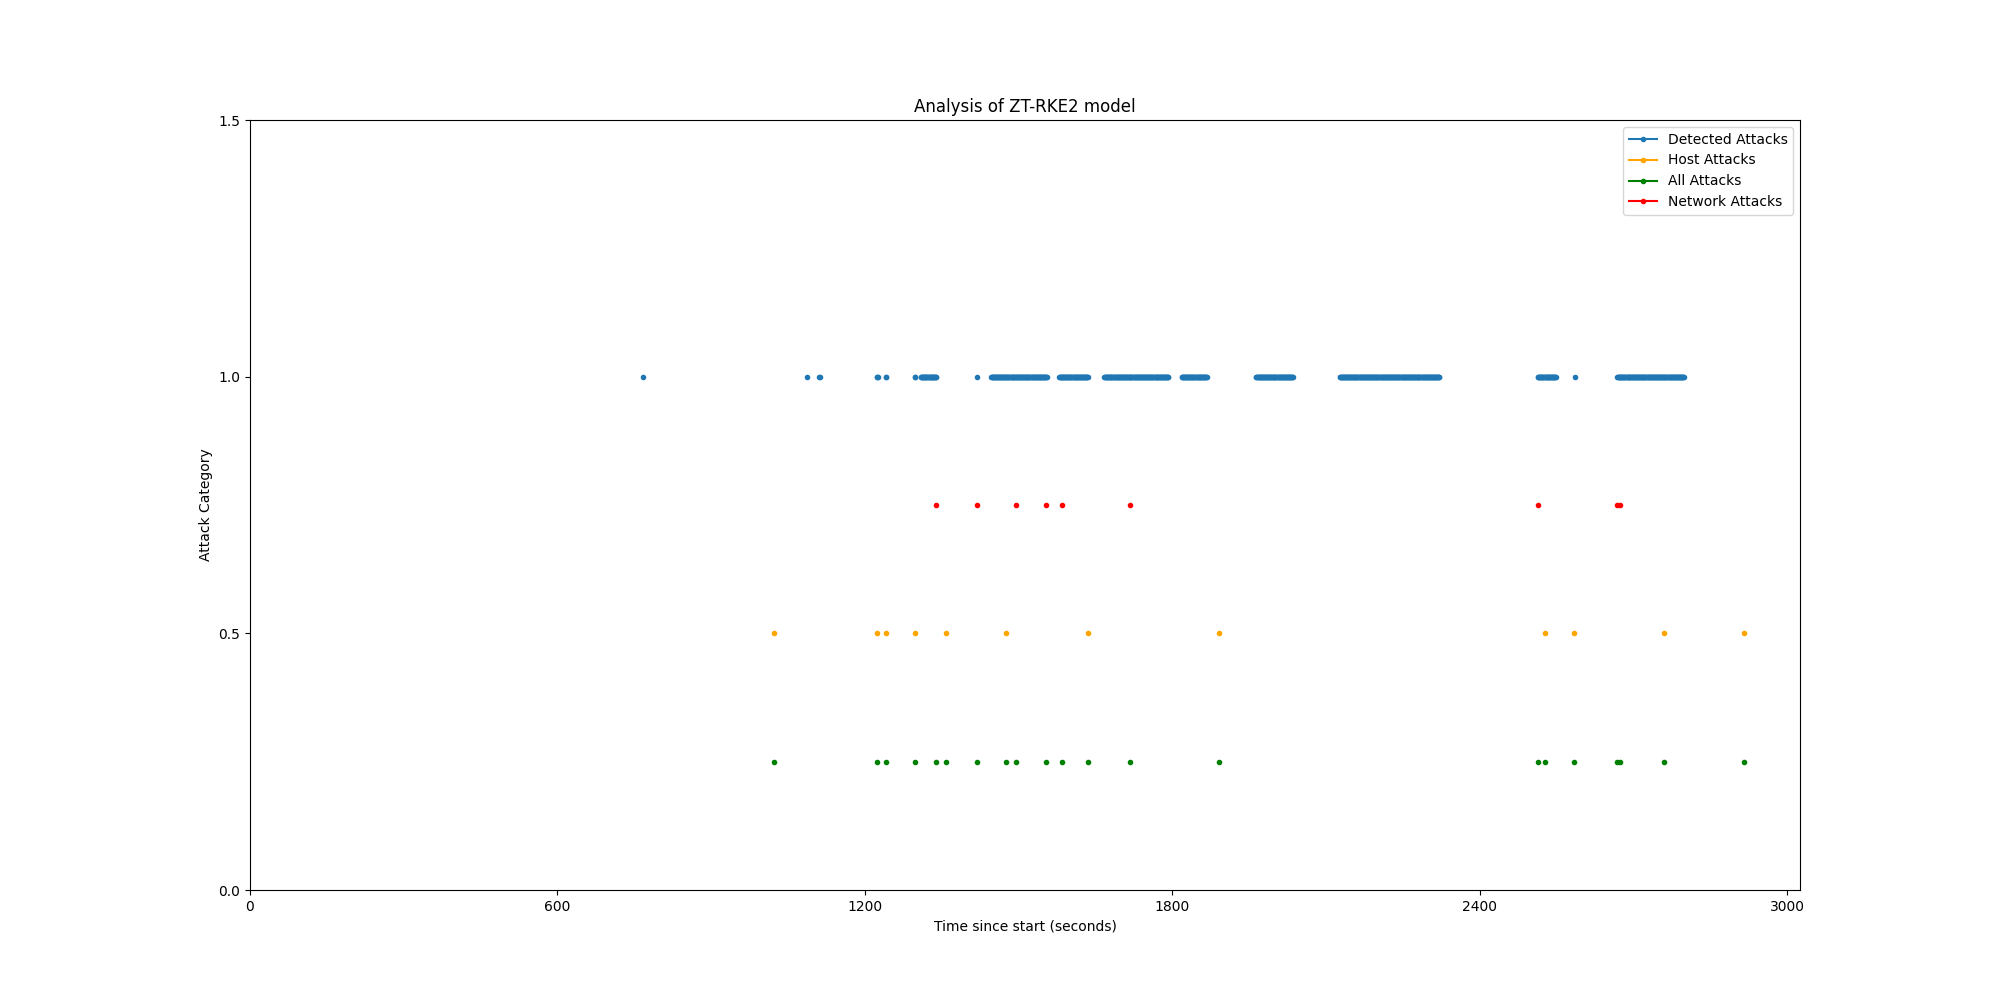
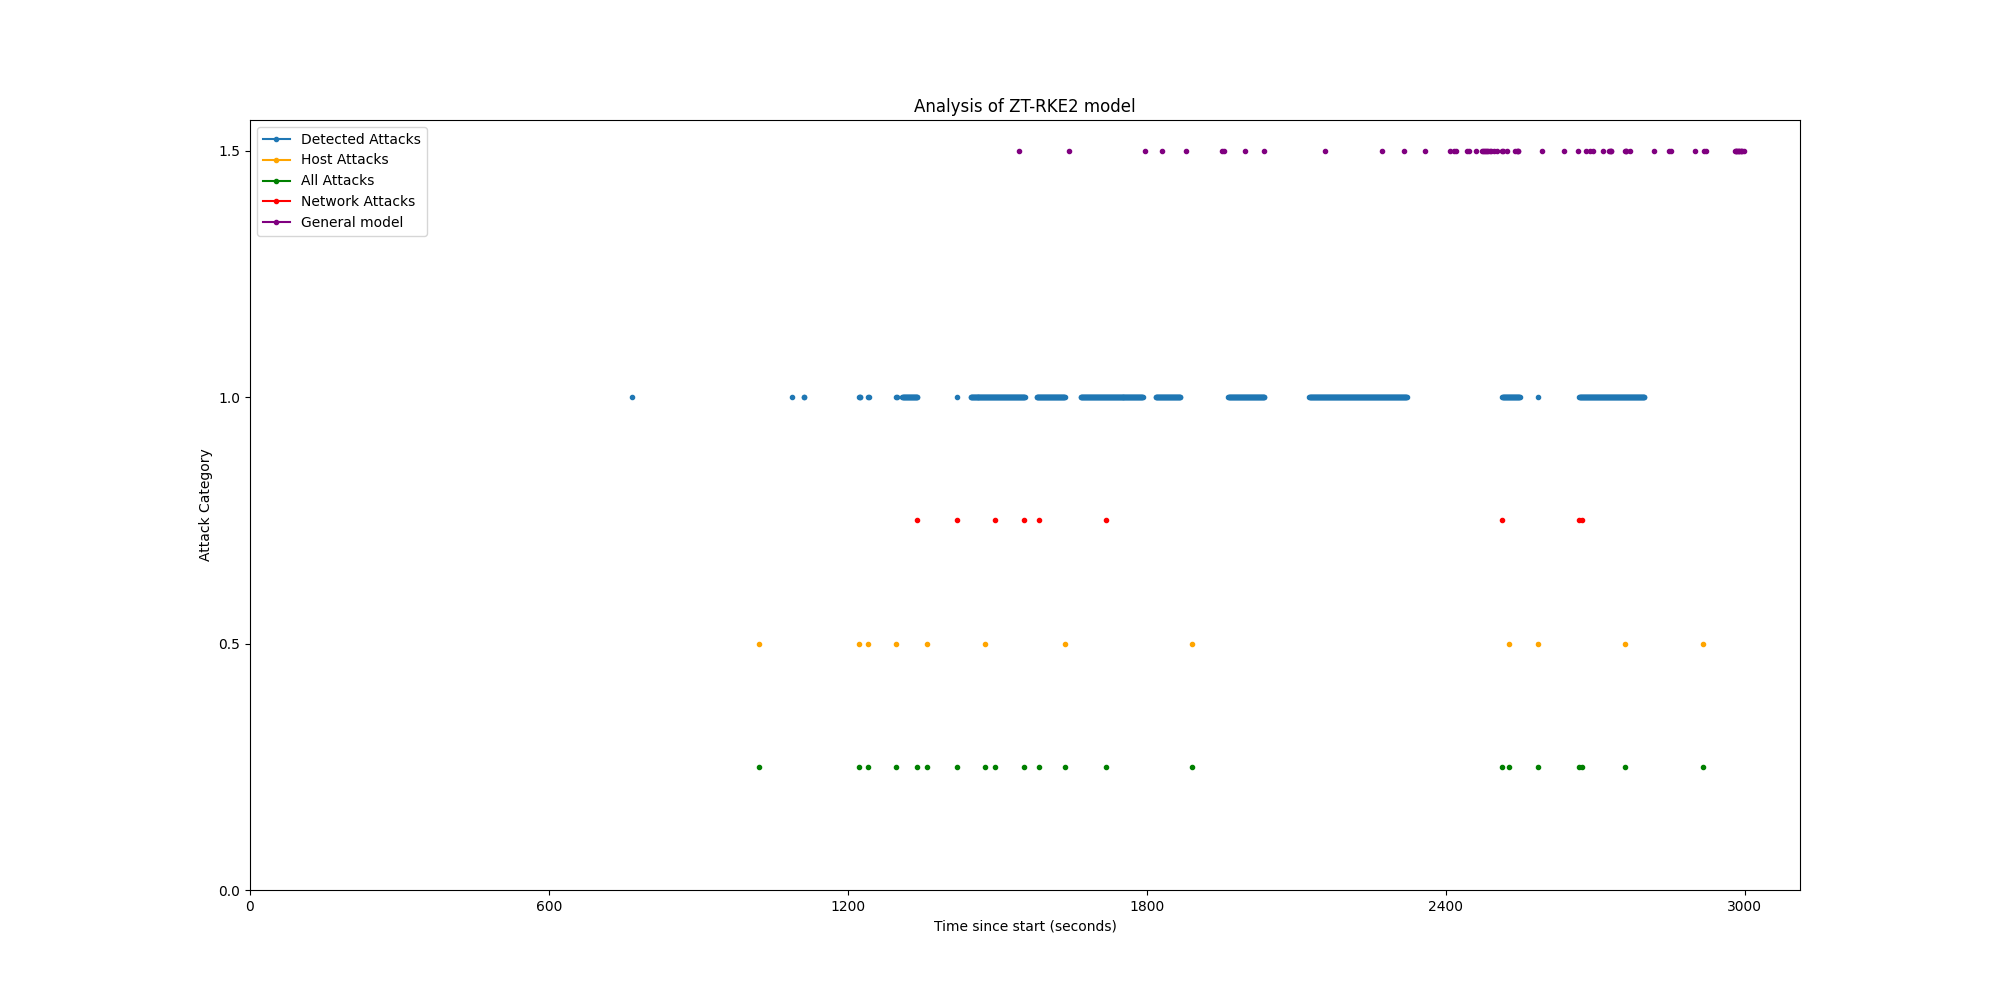
Analysis

diff --git a/performance/analyse_log.py b/performance/analyse_log.py
@@ -2,14 +2,20 @@ from argparse import ArgumentParser
 import matplotlib.pyplot as plt
 import datetime
 import numpy as np
+import os
 import re
+import time
 def timestr_to_obj(timestr):
+    if timestr is None:
+        return None
     return datetime.datetime.strptime(timestr.strip(),"%d/%m/%Y %H:%M:%S:%f").timestamp()
 class Attack:
     def __init__(self,name,ts,host):
         self.name = name
         self.ts = timestr_to_obj(ts)
         self.host = host
+        self.host_map = { "VM1":"10.1.2.5","VM2":"10.1.2.10","LOCAL":"127.0.0.1"}
+
     def get_class(self): 
         if (self.name in ["Brute Force","DoS"]): 
             return "Network"
@@ -21,6 +27,8 @@ class Attack:
         for k in vars(self): 
             ret += k+"->"+str(vars(self)[k])+" | "
         return ret
+    def get_ip(self): 
+        return self.host_map[self.host]
     
 class Attacks: 
     def __init__(self): 
@@ -35,9 +43,6 @@ class Attacks:
         lowest = None
         for atk in self.all:
             diff = abs(ts - atk.ts)
-            # print("DIFF for atk",ts,atk.ts,diff,atk)
-            # if diff < 0:
-            #     continue
             if lowest is None: 
                 # print("NEW LOWEST",diff,atk)
                 lowest = diff
@@ -45,9 +50,24 @@ class Attacks:
             if diff < lowest: 
                 lowest = diff 
                 stored = atk
+        if stored is None: 
+            return None, Attack(None,None,None)
         return lowest, stored
-
-        
+    def get_host_atks(self,req):
+        stored = None
+        lowest = None
+        for atk in self.all:
+            diff = abs(req.ts - atk.ts)
+            if lowest is None: 
+                # print("NEW LOWEST",diff,atk)
+                lowest = diff
+                stored = atk
+            if diff < lowest and atk.get_ip() in req.hosts: 
+                lowest = diff 
+                stored = atk
+        if stored is None: 
+            return None, Attack(None,None,None)
+        return lowest, stored
 
 class Request: 
     def __init__(self,r_t,o_t,s_t,benign,alert_ts,timestr,sstr,pack,term=False): 
@@ -80,8 +100,10 @@ class Analyser:
         self.req_q = list()
         self.attacks = Attacks()
         self.last_details = list()
+
     def set_start(self,timestr):
         self.start_time = timestr_to_obj(timestr)
+
     def analyse_line(self,line,f): 
         if re.match(r"[a-zA-Z]+:",line): 
             return
@@ -145,12 +167,21 @@ class Analyser:
         elif re.match(r"\d+ packets processed.",line):
             # print("GENERAL PACKET COUNTS", line)
             pass
-        # elif line.startswith("Likelihood"): 
-        #     print("LIKELIHOOD",line)
-        #     weights = f.readline()
-        #     print("WEIGHTS",weights)
-        # else: 
-        #     print(line)
+
+    def analyse_comp_line(self,line):
+        det = [x.strip() for x in line.strip().split(" ") if x.strip() != '']
+        # print(line,det)
+        if len(det) != 6:
+            print("Illegal line",line,det)
+            return
+        ts = det[0].replace("|",'').strip()
+        rmse = det[-1]
+        sip = det[1]
+        dip = det[2]
+        
+        last_details = [rmse,"compare",sip,dip]
+        print("added ",last_details, "from", det)
+        self.add_request(Request(None,rmse,None,None,None,ts,None,last_details,True))
 
     def add_request(self,req): 
         # print("|",req)
@@ -160,7 +191,8 @@ def to_date(times):
     if times is not None:
         # print(type(time))
         
-        return str(datetime.datetime.fromtimestamp(float(times)).time())
+        return str(datetime.datetime.fromtimestamp(float(times)).time()) 
+
 def main(): 
     parser = ArgumentParser()
     parser.add_argument("file", help="Path of file to anlayse")
@@ -216,29 +248,24 @@ def main():
             # print("((",r,end=")),  ")
             # group_count += 1
             count += 1
-            near = results.attacks.get_closest_atk(r.ts)
+            near = results.attacks.get_host_atks(r)
             # if count > 3:
             #     break
             # Store groups = { hosts -> [ count,start_ts, end_ts ]}
+
             found = False
             host_str = ""
+            print("Adding",r.hosts)
             for i,v in enumerate(sorted(r.hosts)):
                 # print("Sorted",i,v)
+                print("adding",v)
                 host_str += "-" + str(v)
             if host_str in groups:
                 found = True
                 groups[host_str][0] += 1
+                # If there is a gap larger than 60 seconds between packets, end the current flow.
                 if r.ts - groups[host_str][2] > 60:
-                    # print(groups[host_str])
-                    # groups[host_str][1] = to_date(groups[host_str][1])
-                    # groups[host_str][2] = to_date(groups[host_str][2])
                     if len(groups[host_str]) > 4:
-                        # try:
-                        #     print(type(groups[host_str][-1]),groups[host_str][-1])
-                        #     groups[host_str][-1] = groups[host_str][-1].time()
-                        # # .date()
-                        # except: 
-                        #     print("In loop" ,groups[host_str][-1])
                         groups[host_str][6] = to_date(groups[host_str][6])
                     # groups[host_str].append(r.sysc_str)
                     # if "10.1.2.5" in host_str: 
@@ -252,14 +279,14 @@ def main():
                             print("Correct host matched.")
                             values["correct_host"] += 1
                     # print("NEW ATTACK GROUP",datetime.datetime.fromtimestamp(r.ts),r.hosts,r.o_trust,r.s_trust,near[0],near[1])
-                    near = results.attacks.get_closest_atk(r.ts)
-                    groups[host_str] = [0,r.ts,r.ts,near[0],near[1].name,near[1].host,near[1].ts]                         
+                    near = results.attacks.get_host_atks(r)
+                    groups[host_str] = [0,r.ts,r.ts,near[0],near[1].name,near[1].host,near[1].ts,r.hosts]                         
                     # groups[host_str] = [0,r.ts,r.ts,near[0],near[1].name,near[1].host,near[1].ts,r.sysc_str]                        
                 else: 
                     groups[host_str][2] = r.ts 
             if not found:
-                near = results.attacks.get_closest_atk(r.ts)
-                groups[host_str] = [0,r.ts,r.ts,near[0],near[1].name,near[1].host,near[1].ts]                         
+                near = results.attacks.get_host_atks(r)
+                groups[host_str] = [0,r.ts,r.ts,near[0],near[1].name,near[1].host,near[1].ts,r.hosts]                         
                 # groups[host_str] = [0,r.ts,r.ts,near[0],near[1].name,near[1].host,near[1].ts,r.sysc_str]                         
             # if r.ts - last_ts > 3: 
             #     print("NEW ATTACK GROUP",datetime.datetime.fromtimestamp(r.ts),r.hosts,r.o_trust,r.s_trust,near[0],near[1])
@@ -269,9 +296,11 @@ def main():
         print("ALL GROUPS:",all_groups)
         atk_ranges = list()
         for grp in all_groups:
-            # print(grp)
+            print("Group",grp)
             start = grp[1] - results.start_time
             end = grp[2] -  results.start_time
+            # start = grp[1]
+            # end = grp[2]
             atk_ranges.append((int(start),int(end)))
             # print(start,end)
 
@@ -290,6 +319,12 @@ def main():
         # print(results.start_time)
         # print(ground_truths)
         all_atks = []
+        comp_vals = []
+        compare_ts = analyse_comparison("../module/Kit_Agent/100k_minimal.log")
+        for i,c_ts in enumerate(compare_ts): 
+            compare_ts[i] = int(float(c_ts[0]) - results.start_time)
+            # print(c_ts[1])
+        # print("Compare",compare_ts)
         for value in values:
             if any(start <= value <= end for start, end in atk_ranges):
                 plot_values.append(1)
@@ -307,22 +342,92 @@ def main():
                 net_atks.append(None)
                 all_atks.append(None)
                 host_atks.append(None)
-        # print(plot_values)
+            if value in compare_ts: 
+                comp_vals.append(1.25)
+            else:
+                comp_vals.append(None)
+            # if 
+        print("Values",plot_values)
         # print(plot_2_values)
         plt.figure(figsize=(20,10))
         plt.plot(values, plot_values, drawstyle='steps-post',markersize=3,marker='o',label="Detected Attacks")
         plt.plot(values, host_atks, drawstyle='steps-post',color="orange",markersize=3,marker='o',label="Host Attacks")
         plt.plot(values, all_atks, drawstyle='steps-post',color="green",markersize=3,marker='o',label="All Attacks")
         plt.plot(values, net_atks, drawstyle='steps-post',color="red",markersize=3,marker='o',label="Network Attacks")
+        plt.plot(values, comp_vals, drawstyle='steps-post',color="purple",markersize=3,marker='o',label="General model")
         plt.xlabel("Time since start (seconds)")
+
         plt.ylabel("Attack Category")
         plt.xticks(np.arange(0,3600,step=600))
         plt.yticks(np.arange(0,2,step=0.5))
         plt.legend()
         plt.title("Analysis of ZT-RKE2 model")
-        plt.savefig("31_8.png")
+        # plt.savefig(f'out/31_8_{time.strftime("%Y%m%d-%H%M%S")}.png')
         plt.show()
 
+def analyse_comparison(file_name):
+    if not os.path.exists(file_name): 
+        print("Invalid file for comparison.")
+        return
+    results = Analyser()
+    with open(file_name,'r') as f:
+        for line in f:
+            results.analyse_comp_line(line)
+    # print(results.req_q)
+    get_groups_from_analyser(results)
+    return results
+
+def get_groups_from_analyser(results):
+    groups = dict()
+    count = 0
+    host_map = { "VM1":"10.1.2.5","VM2":"10.1.2.10","LOCAL":"127.0.0.1"}
+    values = {"total":0,"within_90s":0,"correct_host":0}
+    all_groups = list()
+    for r in results.req_q:
+        print("((",r,end=")),  ")
+        # group_count += 1
+        count += 1
+        near = results.attacks.get_host_atks(r)
+        # Store groups = { hosts -> [ count,start_ts, end_ts ]}
+        print(near)
+        found = False
+        host_str = ""
+        print("Adding",r.hosts,r.last_pack)
+        for i,v in enumerate(sorted(r.hosts)):
+            # print("Sorted",i,v)
+            print("adding",v)
+            host_str += "-" + str(v)
+        if host_str in groups:
+            print(host_str)
+            found = True
+            groups[host_str][0] += 1
+            # If there is a gap larger than 60 seconds between packets, end the current flow.
+            if r.ts - groups[host_str][2] > 60:
+                if len(groups[host_str]) > 4:
+                    groups[host_str][6] = to_date(groups[host_str][6])
+                # groups[host_str].append(r.sysc_str)
+                # if "10.1.2.5" in host_str: 
+                print(host_str,"Group ended:",groups[host_str])
+                all_groups.append(groups[host_str].copy())
+                values["total"] += 1
+                if len(groups[host_str]) > 3 and groups[host_str][3] < 90:
+                    print("Alert within 90s of attack:",r.o_trust,"x",r.s_trust,"-->",r.r_trust)
+                    values["within_90s"] += 1
+                    if host_map[groups[host_str][5]] in host_str: 
+                        print("Correct host matched.")
+                        values["correct_host"] += 1
+                # print("NEW ATTACK GROUP",datetime.datetime.fromtimestamp(r.ts),r.hosts,r.o_trust,r.s_trust,near[0],near[1])
+                near = results.attacks.get_host_atks(r)
+                groups[host_str] = [0,r.ts,r.ts,near[0],near[1].name,near[1].host,near[1].ts,r.hosts]                         
+                # groups[host_str] = [0,r.ts,r.ts,near[0],near[1].name,near[1].host,near[1].ts,r.sysc_str]                        
+            else: 
+                groups[host_str][2] = r.ts 
+        if not found:
+            near = results.attacks.get_host_atks(r)
+            groups[host_str] = [0,r.ts,r.ts,near[0],near[1].name,near[1].host,near[1].ts,r.hosts]      
+    return groups
+
 if __name__ == "__main__": 
-    main()
+    analyse_comparison("../module/Kit_Agent/50k_minimal.log")
+    # main()
     

diff --git a/module/Kit_Agent/example.py b/module/Kit_Agent/example.py
@@ -22,7 +22,7 @@ import time
 
 
 # File location
-path = "../../performance/2mil-2.8mil.pcap" #the pcap, pcapng, or tsv file to process.
+path = "../../performance/30_sam_31_8.pcap" #the pcap, pcapng, or tsv file to process.
 packet_limit = np.inf #the number of packets to process
 
 # KitNET params:
@@ -40,7 +40,7 @@ start = time.time()
 loop_time = time.time()
 # Here we process (train/execute) each individual packet.
 # In this way, each observation is discarded after performing process() method.
-with open("",'w') as f:
+with open("./new_minimal.log",'w') as f:
     while True:
         i+=1
         if i % 1000 == 0:

diff --git a/module/Kit_Agent/utils/FuzzyLogic.py b/module/Kit_Agent/utils/FuzzyLogic.py
@@ -96,7 +96,7 @@ class SRule:
                 for syi,sysc in enumerate(['unique','common','ubiquitous']):
                     rules_list[li][si][syi] = l + "|" + sub + "|" +sysc + "->" + trust_list[li][si][syi]
                     rules.append(ctrl.Rule(likelihood[l] & sub_malig[sub]& sysc_malig[sysc], subj_trust[trust_list[li][si][syi]]))
-        # print(rules_list)
+        print(rules_list)
         # print(rules)
 
         # # Step 4: Implement the fuzzy inference system

diff --git a/traffic/vm_automation/ssh_model.py b/traffic/vm_automation/ssh_model.py
@@ -240,7 +240,6 @@ def main():
     for i in range(5): 
         # client.add_malicious()
         client.simulate_session()
-
     while True: 
         client.add_malicious()
 
